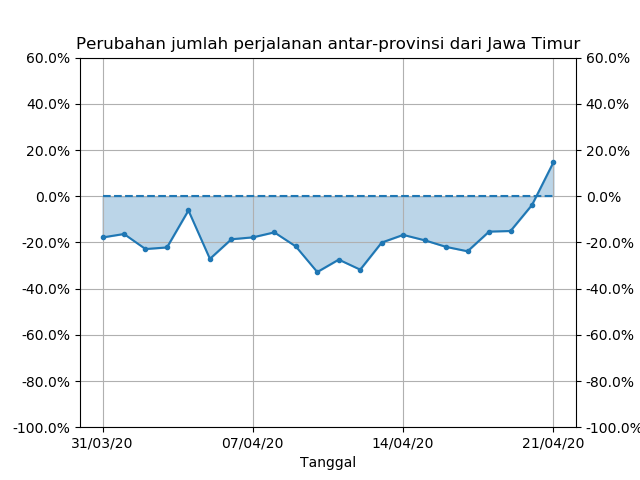
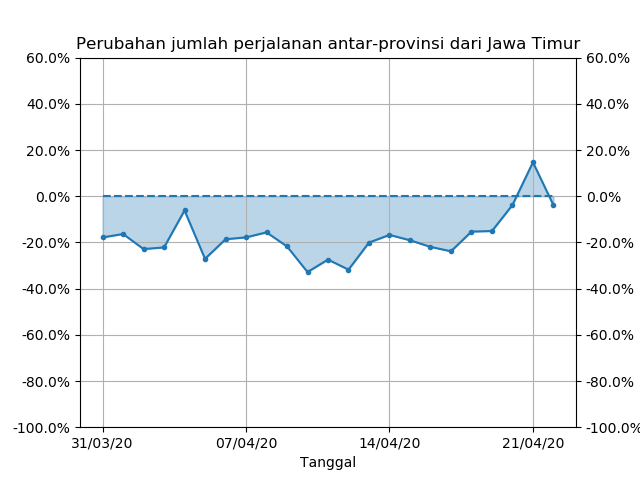
Mobility update

diff --git a/idcovid19-mobility.md b/idcovid19-mobility.md
@@ -10,30 +10,30 @@ Diperbarui pada: 23/04/2020<br/>
 
 #### DKI Jakarta
 
-Rata-rata 10 hari terakhir: \\(\left(-51.9\pm 5.0\right)\%\\)
+Rata-rata 10 hari terakhir: \\(\left(-50.2\pm 5.2\right)\%\\)
 
 <img title="DKI Jakarta" src="{{ site.baseurl }}/assets/idcovid19-mobility/antar-provinsi_dari_dki_jakarta.png" width="50%"/>
 
 #### Jawa Barat
 
-Rata-rata 10 hari terakhir: \\(\left(-50.5\pm 5.8\right)\%\\)
+Rata-rata 10 hari terakhir: \\(\left(-48.6\pm 5.4\right)\%\\)
 
 <img title="Jawa Barat" src="{{ site.baseurl }}/assets/idcovid19-mobility/antar-provinsi_dari_jawa_barat.png" width="50%"/>
 
 #### Jawa Timur
 
-Rata-rata 10 hari terakhir: \\(\left(-15.3\pm 12.1\right)\%\\)
+Rata-rata 10 hari terakhir: \\(\left(-12.5\pm 11.1\right)\%\\)
 
 <img title="Jawa Timur" src="{{ site.baseurl }}/assets/idcovid19-mobility/antar-provinsi_dari_jawa_timur.png" width="50%"/>
 
 #### Sulawesi Selatan
 
-Rata-rata 10 hari terakhir: \\(\left(-44.5\pm 9.8\right)\%\\)
+Rata-rata 10 hari terakhir: \\(\left(-45.4\pm 10.5\right)\%\\)
 
 <img title="Sulawesi Selatan" src="{{ site.baseurl }}/assets/idcovid19-mobility/antar-provinsi_dari_sulawesi_selatan.png" width="50%"/>
 
 #### Jawa Tengah
 
-Rata-rata 10 hari terakhir: \\(\left(-32.0\pm 7.7\right)\%\\)
+Rata-rata 10 hari terakhir: \\(\left(-29.2\pm 7.5\right)\%\\)
 
 <img title="Jawa Tengah" src="{{ site.baseurl }}/assets/idcovid19-mobility/antar-provinsi_dari_jawa_tengah.png" width="50%"/>
